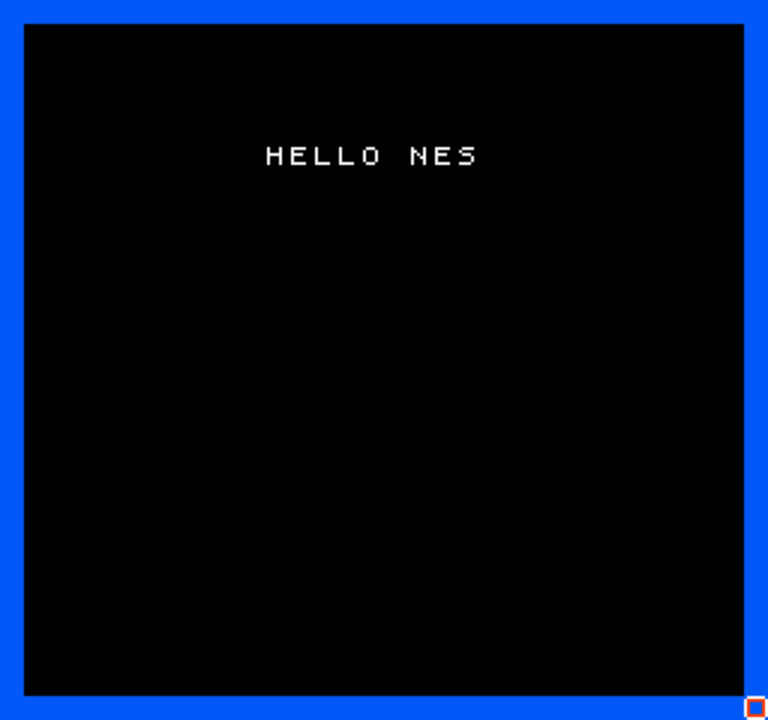
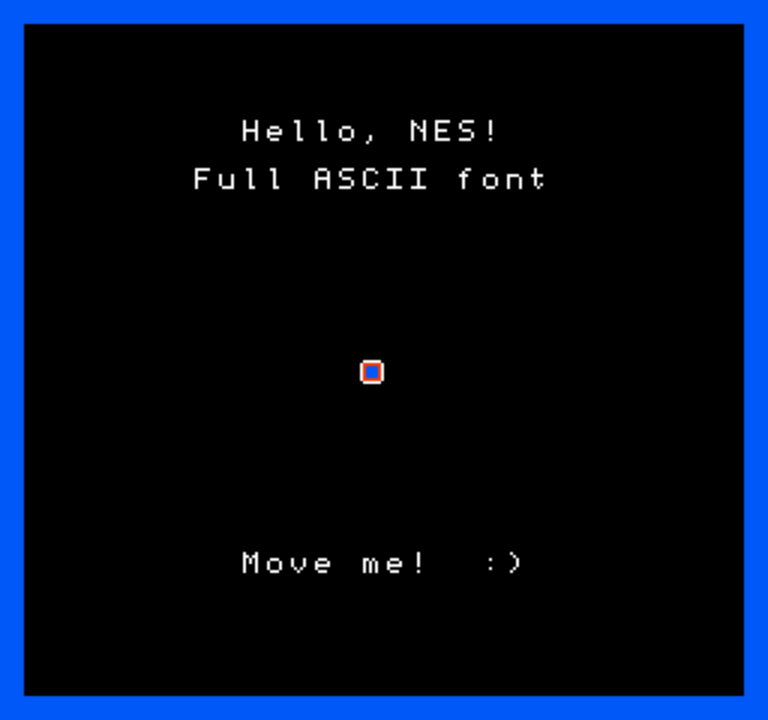
Added all ASCII printable characters to HelloNesGame.cs and verified. Claude Code generated.

diff --git a/hosts/NesRuntime.Maui/Games/HelloNesGame.cs b/hosts/NesRuntime.Maui/Games/HelloNesGame.cs
@@ -48,8 +48,9 @@ public sealed class HelloNesGame : NesGame
         LoadFont();
 
         DrawBorder(block);
-        DrawText("HELLO NES", tileX: 11, tileY: 6, TextPalette);
-        DrawText("MOVE ME", tileX: 12, tileY: 22, TextPalette);
+        DrawText("Hello, NES!", tileX: 10, tileY: 5, TextPalette);
+        DrawText("Full ASCII font", tileX: 8, tileY: 7, TextPalette);
+        DrawText("Move me!  :)", tileX: 10, tileY: 23, TextPalette);
 
         _intro = BuildIntroJingle();
         _blip = BuildBlip();
@@ -163,16 +164,105 @@ public sealed class HelloNesGame : NesGame
         return pixels;
     }
 
-    // A tiny 8x8 bitmap font covering just the letters this game shows.
+    // An 8x8 bitmap font covering every printable ASCII character (0x20 space .. 0x7E '~').
+    // Each glyph is 8 rows of 8 chars: 'X' = a set pixel, '.' = clear. Verified by rendering the
+    // full sheet (structural check: all 95 present, every row 8x8; plus a visual legibility pass).
     private static readonly Dictionary<char, string[]> Font = new()
     {
-        ['H'] = ["........", ".X...X..", ".X...X..", ".XXXXX..", ".X...X..", ".X...X..", ".X...X..", "........"],
-        ['E'] = ["........", ".XXXXX..", ".X......", ".XXXX...", ".X......", ".X......", ".XXXXX..", "........"],
-        ['L'] = ["........", ".X......", ".X......", ".X......", ".X......", ".X......", ".XXXXX..", "........"],
-        ['O'] = ["........", "..XXX...", ".X...X..", ".X...X..", ".X...X..", ".X...X..", "..XXX...", "........"],
-        ['N'] = ["........", ".X...X..", ".XX..X..", ".X.X.X..", ".X..XX..", ".X...X..", ".X...X..", "........"],
-        ['S'] = ["........", "..XXXX..", ".X......", "..XXX...", ".....X..", ".....X..", ".XXXX...", "........"],
-        ['M'] = ["........", ".X...X..", ".XX.XX..", ".X.X.X..", ".X...X..", ".X...X..", ".X...X..", "........"],
-        ['V'] = ["........", ".X...X..", ".X...X..", ".X...X..", ".X...X..", "..X.X...", "...X....", "........"],
+        [' '] = ["........", "........", "........", "........", "........", "........", "........", "........"],
+        ['!'] = ["...X....", "...X....", "...X....", "...X....", "...X....", "........", "...X....", "........"],
+        ['"'] = ["..X.X...", "..X.X...", "........", "........", "........", "........", "........", "........"],
+        ['#'] = ["........", "..X.X...", ".XXXXX..", "..X.X...", ".XXXXX..", "..X.X...", "........", "........"],
+        ['$'] = ["...X....", "..XXXX..", ".X.X....", "..XXX...", "...X.X..", ".XXXX...", "...X....", "........"],
+        ['%'] = [".XX.....", ".XX..X..", "....X...", "...X....", "..X.....", ".X..XX..", "....XX..", "........"],
+        ['&'] = ["..XX....", ".X..X...", ".X..X...", "..XX....", ".X.X.X..", ".X..X...", "..XX.X..", "........"],
+        ['\''] = ["...X....", "...X....", "........", "........", "........", "........", "........", "........"],
+        ['('] = ["....X...", "...X....", "..X.....", "..X.....", "..X.....", "...X....", "....X...", "........"],
+        [')'] = ["..X.....", "...X....", "....X...", "....X...", "....X...", "...X....", "..X.....", "........"],
+        ['*'] = ["........", "..X.X...", "...X....", ".XXXXX..", "...X....", "..X.X...", "........", "........"],
+        ['+'] = ["........", "...X....", "...X....", ".XXXXX..", "...X....", "...X....", "........", "........"],
+        [','] = ["........", "........", "........", "........", "........", "...X....", "...X....", "..X....."],
+        ['-'] = ["........", "........", "........", ".XXXXX..", "........", "........", "........", "........"],
+        ['.'] = ["........", "........", "........", "........", "........", "........", "...X....", "........"],
+        ['/'] = [".....X..", "....X...", "....X...", "...X....", "..X.....", "..X.....", ".X......", "........"],
+        ['0'] = ["..XXX...", ".X...X..", ".X..XX..", ".X.X.X..", ".XX..X..", ".X...X..", "..XXX...", "........"],
+        ['1'] = ["...X....", "..XX....", "...X....", "...X....", "...X....", "...X....", "..XXX...", "........"],
+        ['2'] = ["..XXX...", ".X...X..", ".....X..", "...XX...", "..X.....", ".X......", ".XXXXX..", "........"],
+        ['3'] = ["..XXX...", ".X...X..", ".....X..", "...XX...", ".....X..", ".X...X..", "..XXX...", "........"],
+        ['4'] = ["....X...", "...XX...", "..X.X...", ".X..X...", ".XXXXX..", "....X...", "....X...", "........"],
+        ['5'] = [".XXXXX..", ".X......", ".XXXX...", ".....X..", ".....X..", ".X...X..", "..XXX...", "........"],
+        ['6'] = ["...XX...", "..X.....", ".X......", ".XXXX...", ".X...X..", ".X...X..", "..XXX...", "........"],
+        ['7'] = [".XXXXX..", ".....X..", "....X...", "...X....", "..X.....", "..X.....", "..X.....", "........"],
+        ['8'] = ["..XXX...", ".X...X..", ".X...X..", "..XXX...", ".X...X..", ".X...X..", "..XXX...", "........"],
+        ['9'] = ["..XXX...", ".X...X..", ".X...X..", "..XXXX..", ".....X..", "....X...", "..XX....", "........"],
+        [':'] = ["........", "........", "...X....", "........", "........", "...X....", "........", "........"],
+        [';'] = ["........", "........", "...X....", "........", "........", "...X....", "...X....", "..X....."],
+        ['<'] = ["........", "....X...", "...X....", "..X.....", "...X....", "....X...", "........", "........"],
+        ['='] = ["........", "........", ".XXXXX..", "........", ".XXXXX..", "........", "........", "........"],
+        ['>'] = ["........", "..X.....", "...X....", "....X...", "...X....", "..X.....", "........", "........"],
+        ['?'] = ["..XXX...", ".X...X..", ".....X..", "....X...", "...X....", "........", "...X....", "........"],
+        ['@'] = ["..XXX...", ".X...X..", ".X.XXX..", ".X.X.X..", ".X.XXX..", ".X......", "..XXX...", "........"],
+        ['A'] = ["..XXX...", ".X...X..", ".X...X..", ".XXXXX..", ".X...X..", ".X...X..", ".X...X..", "........"],
+        ['B'] = [".XXXX...", ".X...X..", ".X...X..", ".XXXX...", ".X...X..", ".X...X..", ".XXXX...", "........"],
+        ['C'] = ["..XXX...", ".X...X..", ".X......", ".X......", ".X......", ".X...X..", "..XXX...", "........"],
+        ['D'] = [".XXXX...", ".X...X..", ".X...X..", ".X...X..", ".X...X..", ".X...X..", ".XXXX...", "........"],
+        ['E'] = [".XXXXX..", ".X......", ".X......", ".XXXX...", ".X......", ".X......", ".XXXXX..", "........"],
+        ['F'] = [".XXXXX..", ".X......", ".X......", ".XXXX...", ".X......", ".X......", ".X......", "........"],
+        ['G'] = ["..XXX...", ".X...X..", ".X......", ".X.XXX..", ".X...X..", ".X...X..", "..XXX...", "........"],
+        ['H'] = [".X...X..", ".X...X..", ".X...X..", ".XXXXX..", ".X...X..", ".X...X..", ".X...X..", "........"],
+        ['I'] = [".XXXXX..", "...X....", "...X....", "...X....", "...X....", "...X....", ".XXXXX..", "........"],
+        ['J'] = ["...XXX..", "....X...", "....X...", "....X...", "....X...", ".X..X...", "..XX....", "........"],
+        ['K'] = [".X...X..", ".X..X...", ".X.X....", ".XX.....", ".X.X....", ".X..X...", ".X...X..", "........"],
+        ['L'] = [".X......", ".X......", ".X......", ".X......", ".X......", ".X......", ".XXXXX..", "........"],
+        ['M'] = [".X...X..", ".XX.XX..", ".X.X.X..", ".X.X.X..", ".X...X..", ".X...X..", ".X...X..", "........"],
+        ['N'] = [".X...X..", ".XX..X..", ".X.X.X..", ".X..XX..", ".X...X..", ".X...X..", ".X...X..", "........"],
+        ['O'] = ["..XXX...", ".X...X..", ".X...X..", ".X...X..", ".X...X..", ".X...X..", "..XXX...", "........"],
+        ['P'] = [".XXXX...", ".X...X..", ".X...X..", ".XXXX...", ".X......", ".X......", ".X......", "........"],
+        ['Q'] = ["..XXX...", ".X...X..", ".X...X..", ".X...X..", ".X.X.X..", ".X..X...", "..XX.X..", "........"],
+        ['R'] = [".XXXX...", ".X...X..", ".X...X..", ".XXXX...", ".X.X....", ".X..X...", ".X...X..", "........"],
+        ['S'] = ["..XXXX..", ".X......", ".X......", "..XXX...", ".....X..", ".....X..", ".XXXX...", "........"],
+        ['T'] = [".XXXXX..", "...X....", "...X....", "...X....", "...X....", "...X....", "...X....", "........"],
+        ['U'] = [".X...X..", ".X...X..", ".X...X..", ".X...X..", ".X...X..", ".X...X..", "..XXX...", "........"],
+        ['V'] = [".X...X..", ".X...X..", ".X...X..", ".X...X..", ".X...X..", "..X.X...", "...X....", "........"],
+        ['W'] = [".X...X..", ".X...X..", ".X...X..", ".X.X.X..", ".X.X.X..", ".XX.XX..", ".X...X..", "........"],
+        ['X'] = [".X...X..", ".X...X..", "..X.X...", "...X....", "..X.X...", ".X...X..", ".X...X..", "........"],
+        ['Y'] = [".X...X..", ".X...X..", "..X.X...", "...X....", "...X....", "...X....", "...X....", "........"],
+        ['Z'] = [".XXXXX..", ".....X..", "....X...", "...X....", "..X.....", ".X......", ".XXXXX..", "........"],
+        ['['] = ["...XX...", "...X....", "...X....", "...X....", "...X....", "...X....", "...XX...", "........"],
+        ['\\'] = [".X......", "..X.....", "..X.....", "...X....", "....X...", "....X...", ".....X..", "........"],
+        [']'] = ["...XX...", "....X...", "....X...", "....X...", "....X...", "....X...", "...XX...", "........"],
+        ['^'] = ["...X....", "..X.X...", ".X...X..", "........", "........", "........", "........", "........"],
+        ['_'] = ["........", "........", "........", "........", "........", "........", "........", ".XXXXX.."],
+        ['`'] = ["..X.....", "...X....", "........", "........", "........", "........", "........", "........"],
+        ['a'] = ["........", "........", "..XXX...", ".....X..", "..XXXX..", ".X...X..", "..XXXX..", "........"],
+        ['b'] = [".X......", ".X......", ".XXXX...", ".X...X..", ".X...X..", ".X...X..", ".XXXX...", "........"],
+        ['c'] = ["........", "........", "..XXX...", ".X......", ".X......", ".X...X..", "..XXX...", "........"],
+        ['d'] = [".....X..", ".....X..", "..XXXX..", ".X...X..", ".X...X..", ".X...X..", "..XXXX..", "........"],
+        ['e'] = ["........", "........", "..XXX...", ".X...X..", ".XXXXX..", ".X......", "..XXX...", "........"],
+        ['f'] = ["...XX...", "..X.....", ".XXX....", "..X.....", "..X.....", "..X.....", "..X.....", "........"],
+        ['g'] = ["........", "........", "..XXXX..", ".X...X..", ".X...X..", "..XXXX..", ".....X..", "..XXX..."],
+        ['h'] = [".X......", ".X......", ".XXXX...", ".X...X..", ".X...X..", ".X...X..", ".X...X..", "........"],
+        ['i'] = ["...X....", "........", "..XX....", "...X....", "...X....", "...X....", "..XXX...", "........"],
+        ['j'] = [".....X..", "........", "....XX..", ".....X..", ".....X..", ".....X..", ".X...X..", "..XXX..."],
+        ['k'] = [".X......", ".X......", ".X..X...", ".X.X....", ".XX.....", ".X.X....", ".X..X...", "........"],
+        ['l'] = ["..XX....", "...X....", "...X....", "...X....", "...X....", "...X....", "...XX...", "........"],
+        ['m'] = ["........", "........", ".XX.X...", ".X.X.X..", ".X.X.X..", ".X.X.X..", ".X.X.X..", "........"],
+        ['n'] = ["........", "........", ".XXXX...", ".X...X..", ".X...X..", ".X...X..", ".X...X..", "........"],
+        ['o'] = ["........", "........", "..XXX...", ".X...X..", ".X...X..", ".X...X..", "..XXX...", "........"],
+        ['p'] = ["........", "........", ".XXXX...", ".X...X..", ".X...X..", ".XXXX...", ".X......", ".X......"],
+        ['q'] = ["........", "........", "..XXXX..", ".X...X..", ".X...X..", "..XXXX..", ".....X..", ".....X.."],
+        ['r'] = ["........", "........", ".X.XX...", ".XX..X..", ".X......", ".X......", ".X......", "........"],
+        ['s'] = ["........", "........", "..XXXX..", ".X......", "..XXX...", ".....X..", ".XXXX...", "........"],
+        ['t'] = ["..X.....", "..X.....", ".XXXX...", "..X.....", "..X.....", "..X.X...", "...X....", "........"],
+        ['u'] = ["........", "........", ".X...X..", ".X...X..", ".X...X..", ".X...X..", "..XXXX..", "........"],
+        ['v'] = ["........", "........", ".X...X..", ".X...X..", ".X...X..", "..X.X...", "...X....", "........"],
+        ['w'] = ["........", "........", ".X...X..", ".X.X.X..", ".X.X.X..", ".X.X.X..", "..X.X...", "........"],
+        ['x'] = ["........", "........", ".X...X..", "..X.X...", "...X....", "..X.X...", ".X...X..", "........"],
+        ['y'] = ["........", "........", ".X...X..", ".X...X..", ".X...X..", "..XXXX..", ".....X..", "..XXX..."],
+        ['z'] = ["........", "........", ".XXXXX..", "....X...", "...X....", "..X.....", ".XXXXX..", "........"],
+        ['{'] = ["....XX..", "...X....", "...X....", "..X.....", "...X....", "...X....", "....XX..", "........"],
+        ['|'] = ["...X....", "...X....", "...X....", "...X....", "...X....", "...X....", "...X....", "........"],
+        ['}'] = ["..XX....", "...X....", "...X....", "....X...", "...X....", "...X....", "..XX....", "........"],
+        ['~'] = ["........", "........", "..XX.X..", ".X.XX...", "........", "........", "........", "........"],
     };
 }

diff --git a/README.md b/README.md
@@ -126,7 +126,11 @@ renders and plays sound**: the sample game draws a background border and bitmap-
 intro jingle plus a blip when the hero bumps a wall, and moves a hero sprite with the on-screen
 D-pad. Here is a frame captured straight from the runtime's framebuffer (3× nearest-neighbor):
 
-![Rendered frame: blue border, black backdrop, "HELLO NES" in white, hero sprite](docs/sample-frame.png)
+![Rendered frame: blue border, black backdrop, "Hello, NES!" text, hero sprite](docs/sample-frame.png)
+
+The sample game ships an 8×8 bitmap font covering every printable ASCII character (0x20–0x7E):
+
+![Font sheet: all 95 printable ASCII glyphs rendered by the runtime](docs/font-sheet.png)
 
 It targets the desktop platforms: **Mac Catalyst** (built on macOS) and **Windows** (built on
 Windows). Each OS builds only the target it can produce, so the solution builds cleanly in Rider or
